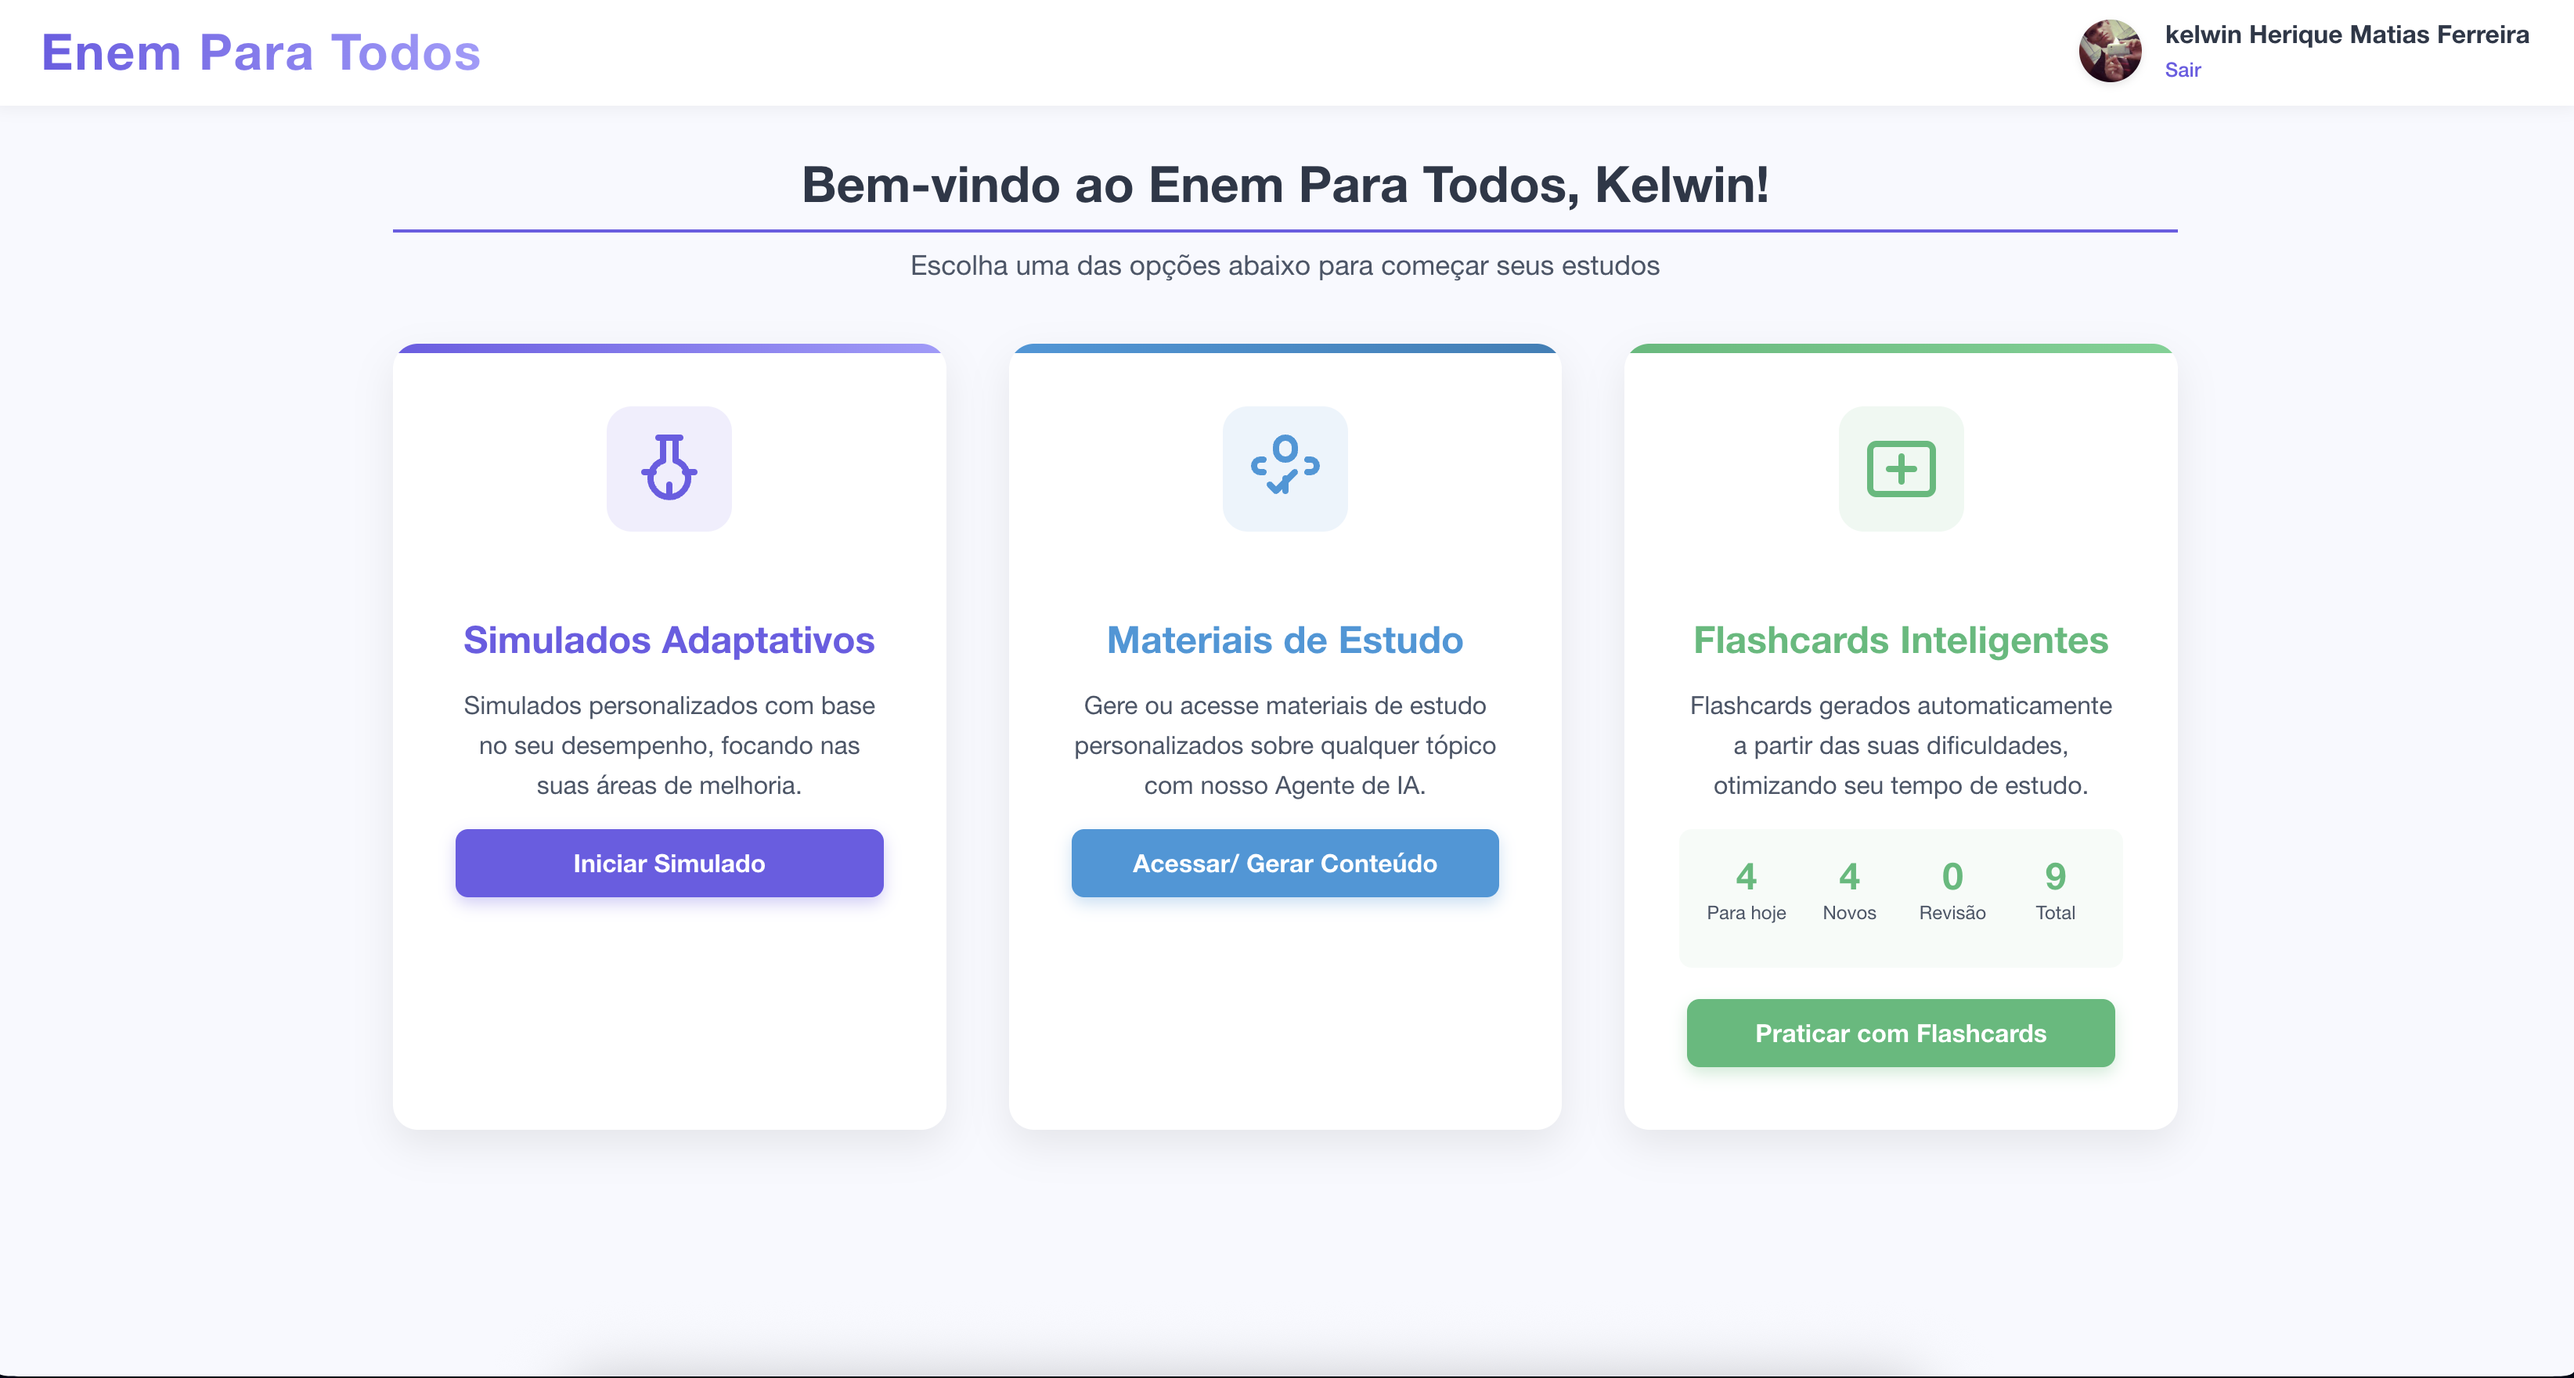
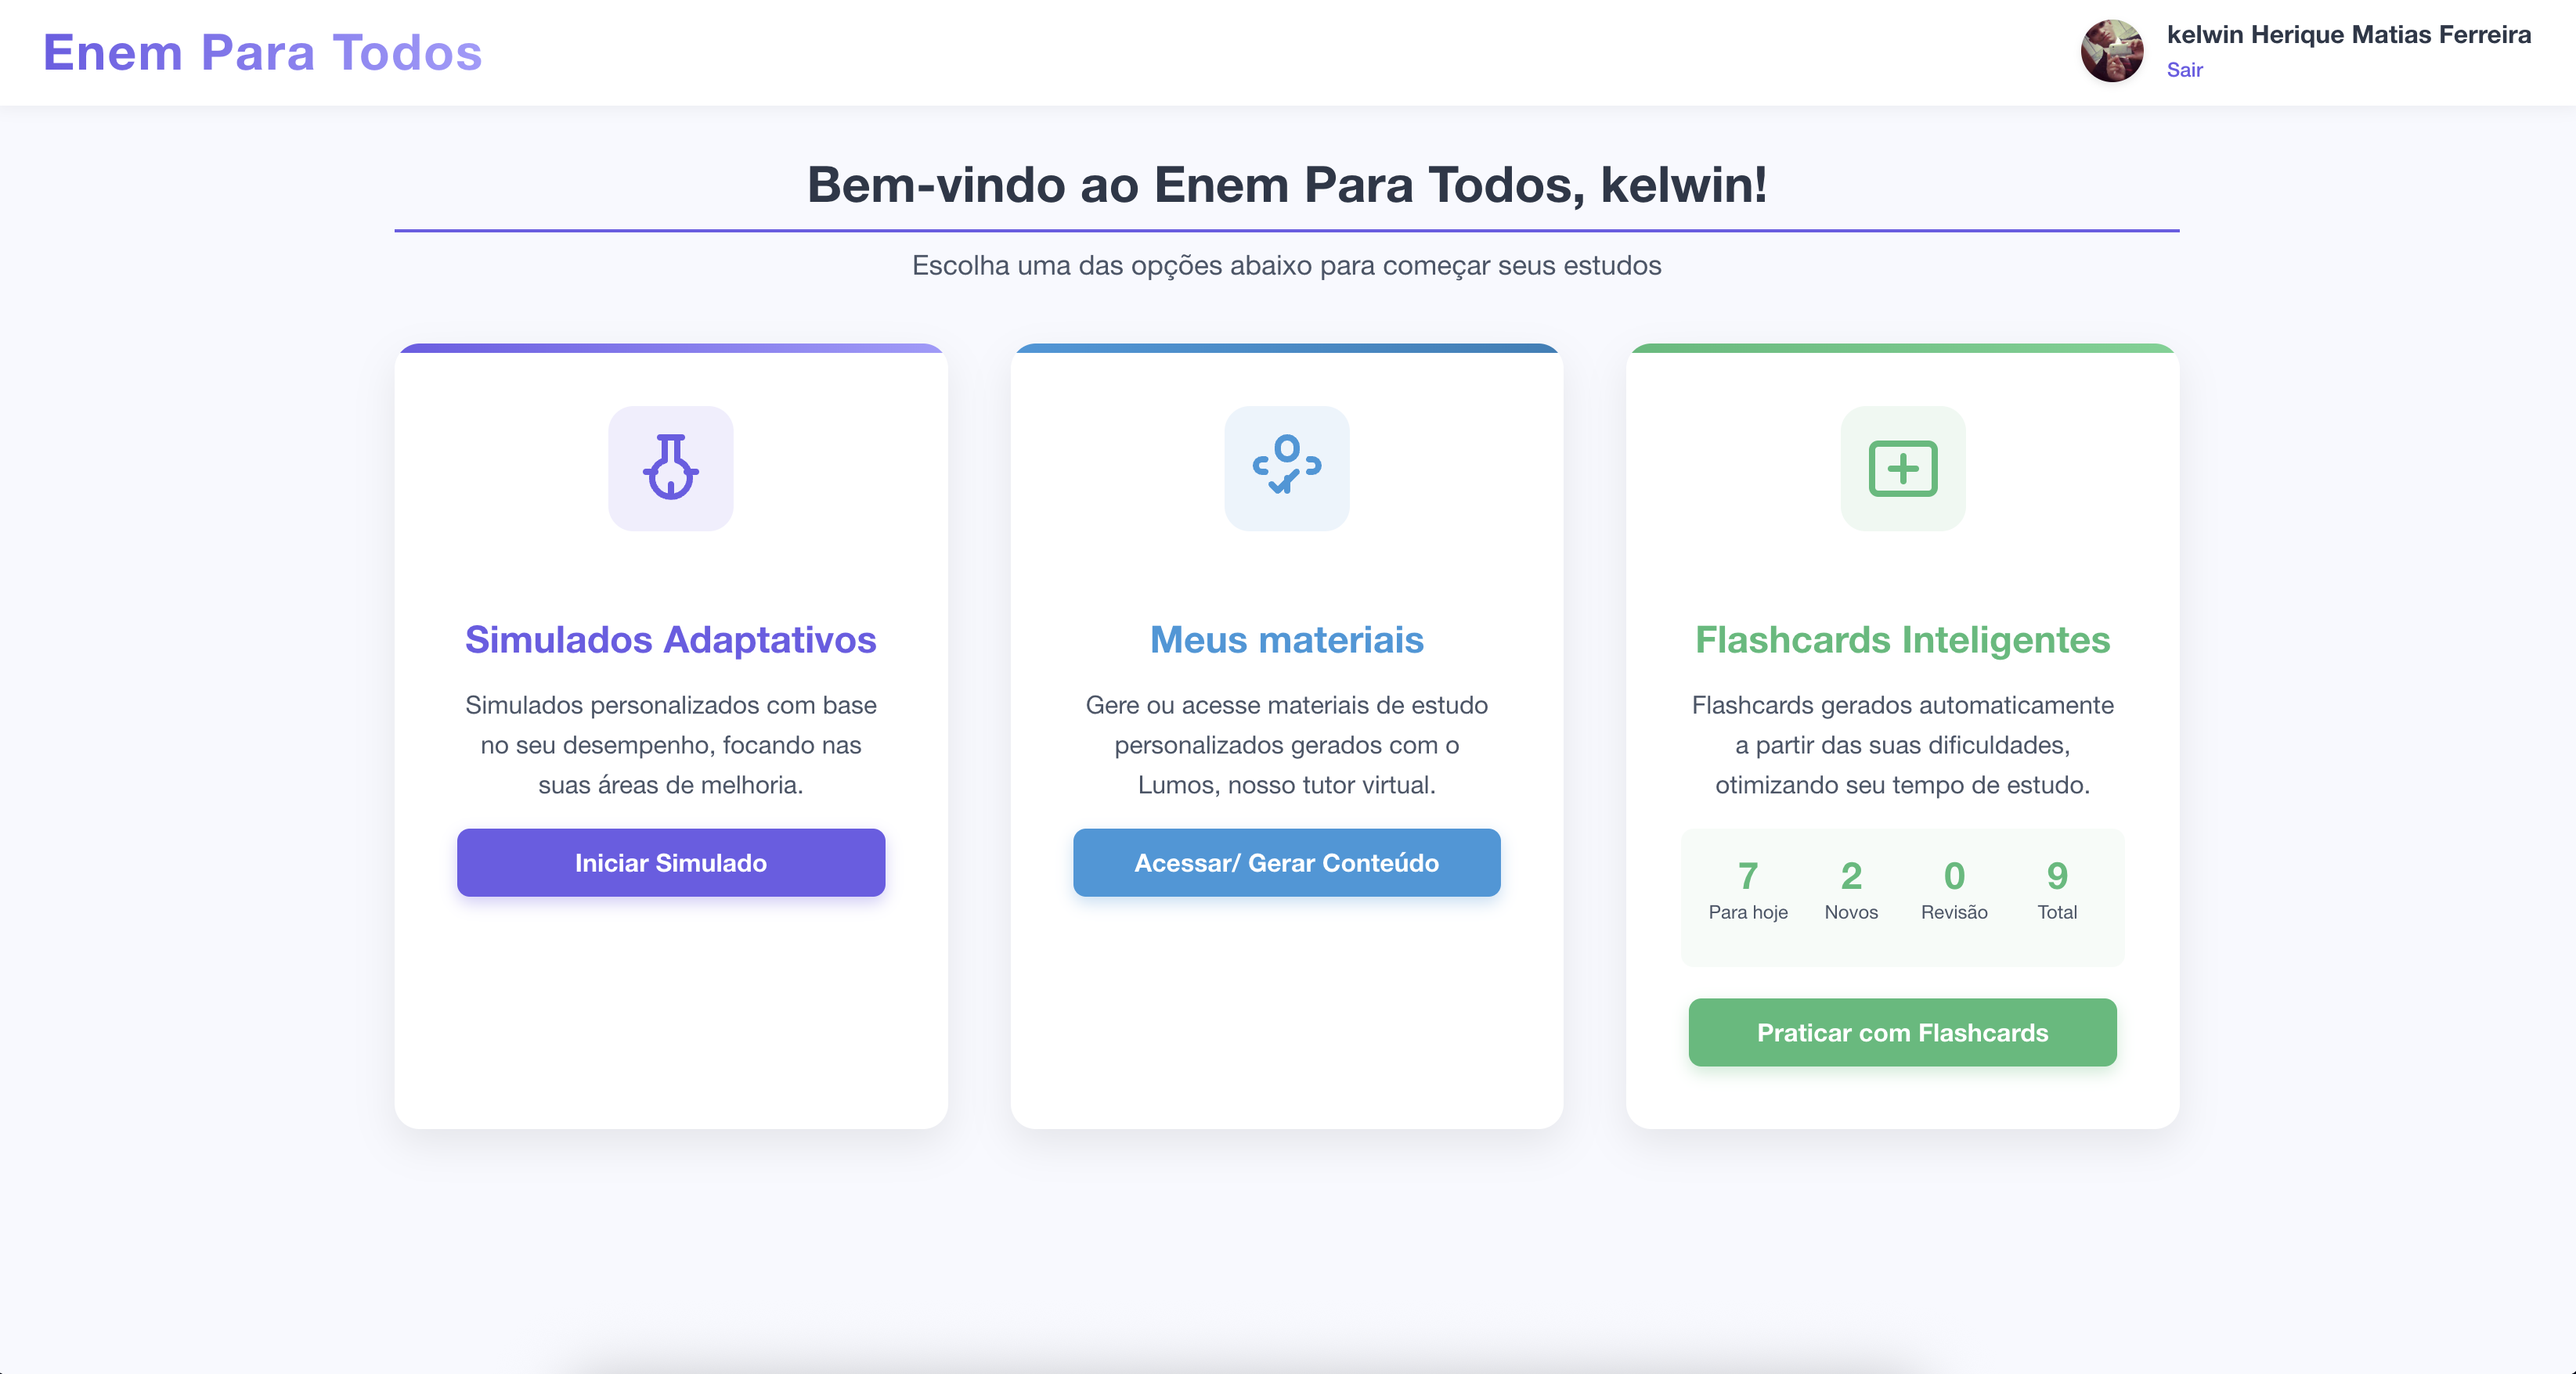
fix somethings

diff --git a/frontend/src/components/Research/ResearchList.tsx b/frontend/src/components/Research/ResearchList.tsx
@@ -55,27 +55,27 @@ const ResearchList: React.FC = () => {
   return (
     <div className="research-list-container">
       <div className="research-list-header">
-        <h1>Conteúdos Gerados</h1>
+        <h1>Meus Materiais</h1>
         <button className="research-create-button" onClick={handleCreateResearch}>
           <svg xmlns="http://www.w3.org/2000/svg" width="20" height="20" viewBox="0 0 24 24" fill="none" stroke="currentColor" strokeWidth="2" strokeLinecap="round" strokeLinejoin="round">
             <line x1="12" y1="5" x2="12" y2="19"></line>
             <line x1="5" y1="12" x2="19" y2="12"></line>
           </svg>
-          Gerar Novo Conteúdo
+          Gerar Novo Material
         </button>
       </div>
 
       {loading ? (
         <div className="research-loading">
           <div className="research-loading-spinner"></div>
-          <p>Carregando conteúdos...</p>
+          <p>Carregando materiais...</p>
         </div>
       ) : researchList.length === 0 ? (
         <div className="research-empty-state">
-          <h3>Nenhum conteúdo encontrado</h3>
-          <p>Você ainda não gerou nenhum conteúdo. Clique no botão acima para criar seu primeiro material de estudo!</p>
+          <h3>Nenhum material encontrado</h3>
+          <p>Você ainda não gerou nenhum material. Clique no botão acima para criar seu primeiro material!</p>
           <button className="research-create-button" onClick={handleCreateResearch}>
-            Gerar Primeiro Conteúdo
+            Gerar Primeiro Material
           </button>
         </div>
       ) : (
@@ -103,7 +103,7 @@ const ResearchList: React.FC = () => {
                     <polyline points="15 3 21 3 21 9"></polyline>
                     <line x1="10" y1="14" x2="21" y2="3"></line>
                   </svg>
-                  Ver conteúdo
+                  Ver Material
                 </button>
               </div>
             </div>

diff --git a/frontend/src/components/Research/ResearchCreate.tsx b/frontend/src/components/Research/ResearchCreate.tsx
@@ -42,7 +42,7 @@ const ResearchCreate: React.FC = () => {
   return (
     <div className="research-create-container">
       <div className="research-create-header">
-        <h1>Gerar Novo Conteúdo</h1>
+        <h1>Gerar Novo Material</h1>
         <button className="research-back-button" onClick={handleBackClick}>
           <svg xmlns="http://www.w3.org/2000/svg" width="20" height="20" viewBox="0 0 24 24" fill="none" stroke="currentColor" strokeWidth="2" strokeLinecap="round" strokeLinejoin="round">
             <line x1="19" y1="12" x2="5" y2="12"></line>
@@ -68,7 +68,7 @@ const ResearchCreate: React.FC = () => {
         {loading ? (
           <div className="research-loading">
             <div className="research-loading-spinner"></div>
-            <p>Gerando conteúdo... Isso pode levar alguns segundos.</p>
+            <p>Gerando material... Isso pode levar alguns segundos.</p>
           </div>
         ) : (
           <button 
@@ -76,7 +76,7 @@ const ResearchCreate: React.FC = () => {
             className="research-submit-button"
             disabled={!topic.trim() || loading}
           >
-            Gerar Conteúdo
+            Gerar Material
           </button>
         )}
       </form>

diff --git a/frontend/src/components/Login/Login.tsx b/frontend/src/components/Login/Login.tsx
@@ -12,7 +12,7 @@ const Login: React.FC = () => {
           <h1 className="logo-text">Enem Para Todos</h1>
         </div>
         <div className="login-heading">
-          <h2>Prepare-se para o ENEM de forma <span className="highlight">inteligente e personalizada</span> com a ajuda da nossa IA!</h2>
+          <h2>Prepare-se para o ENEM de forma <span className="highlight">inteligente e personalizada</span> com a ajuda do <span className="highlight">Lumos</span>, nosso tutor virtual!</h2>
           <p>O Enem Para Todos utiliza inteligência artificial avançada para criar uma experiência de estudo adaptativa, focada nas suas necessidades específicas.</p>
         </div>
         <div className="login-content">

diff --git a/frontend/src/components/Dashboard/Dashboard.tsx b/frontend/src/components/Dashboard/Dashboard.tsx
@@ -126,8 +126,8 @@ const Dashboard: React.FC = () => {
                 <path d="M7 17l2 2 6-6" />
               </svg>
             </div>
-            <h3>Materiais de Estudo</h3>
-            <p>Gere ou acesse materiais de estudo personalizados sobre qualquer tópico com nosso Agente de IA.</p>
+            <h3>Meus materiais</h3>
+            <p>Gere ou acesse materiais de estudo personalizados gerados com o Lumos, nosso tutor virtual.</p>
             <div className="option-button">Acessar/ Gerar Conteúdo</div>
           </div>
           

diff --git a/frontend/src/components/Flashcards/FlashcardReview.tsx b/frontend/src/components/Flashcards/FlashcardReview.tsx
@@ -182,7 +182,7 @@ const FlashcardReview: React.FC = () => {
         
         {isRevealed && (
           <div className="rating-container">
-            <p className="rating-instruction">Quão bem você se lembrou deste flashcard?</p>
+            <p className="rating-instruction">Quão bem você se lembrou deste conteúdo?</p>
             <div className="rating-buttons">
               <button 
                 className="rating-button hard" 

diff --git a/frontend/src/components/ExamTest/InteractiveExamTest/QuestionChat.tsx b/frontend/src/components/ExamTest/InteractiveExamTest/QuestionChat.tsx
@@ -149,7 +149,7 @@ const QuestionChat: React.FC<QuestionChatProps> = ({
     <div className="chat-section">
       <div className="chat-header">
         <FontAwesomeIcon icon={faCommentDots} className="chat-icon" />
-        <h3>Tire suas dúvidas com o assistente</h3>
+        <h3>Tire suas dúvidas com o Lumos, nosso tutor virtual</h3>
       </div>
       
       {chatMessages.length > 0 ? (

diff --git a/README.md b/README.md
@@ -121,6 +121,9 @@ Conheça a interface intuitiva e moderna do ENEM Para Todos:
 ### Criar Nova Pesquisa
 <img src="./assets/research_create.png" alt="Criar Nova Pesquisa" width="700">
 
+### Converse com o Lumos
+<img src="./assets/chat.png" alt="Converse com o Lumos" width="700">
+
 ### Detalhes da Pesquisa
 <img src="./assets/research_detail.png" alt="Detalhes da Pesquisa" width="700">
 
